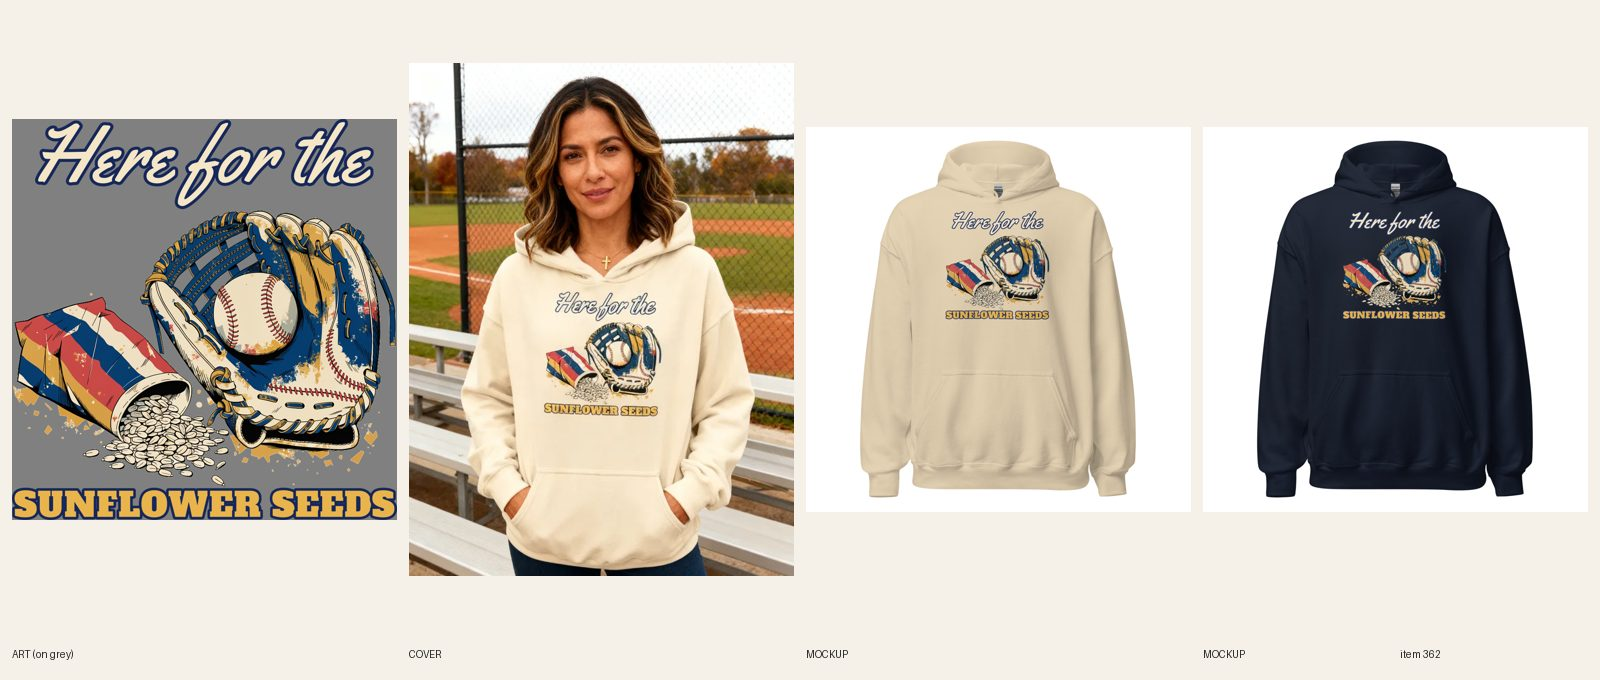
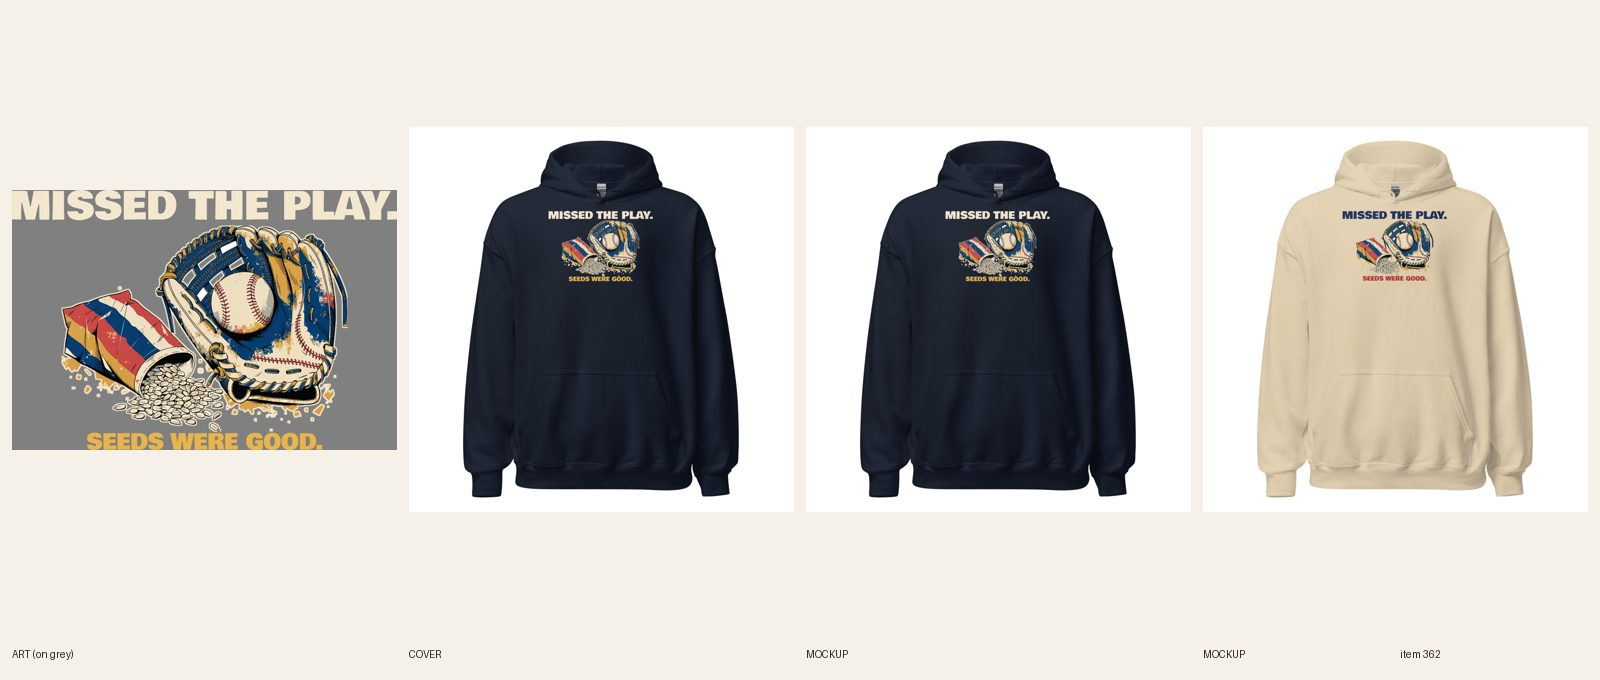
[B] review 362 Missed the Play baseball hoodie (line + type redo)

diff --git a/docs/pipeline/362-baseball-hoodie-here-for-the-sunflower-seeds.md b/docs/pipeline/362-baseball-hoodie-here-for-the-sunflower-seeds.md
@@ -1,4 +1,4 @@
-status: REDO
+status: REVIEW
 lane: B
 type: new
 id: 362
@@ -30,3 +30,4 @@ kd: 38
 - 2026-10-18 02:20 UTC builder [B]: synced 12/12. REVIEW. Sheet docs/review/362.jpg.
 - 2026-10-17 20:19 UTC director: APPROVED, LIVE. ACTIVE + published Online Store, Headless, Google; cohesion-audit --handle PASS.
 - 2026-10-18 17:22 UTC director: QUALITY RESET grade C (new line + type), REDO. The product stays ACTIVE (same handle, URL, title keyword). 1. Line (R3.12, quality-reset 'Lines'): "Here for the / SUNFLOWER SEEDS": Stock "here for the snacks" trope; script headline. Write 5 candidates, keep the one a stranger laughs at in 3 seconds without backstory; kill lines that only describe the picture; if none of the 5 is funny, PARK it. 2. Quality reset type bar (docs/backlog/quality-reset.md, 'The new bar'): headline at least 90% of the art width, heavy, colors pulled from the art; second line at least 45% of the headline's height, never a thin script on a dark or mid garment; use the lettering as a shape (arch, stacked lockup, words breaking into the art), not a plain bar above and a script line below; no font used on more than 1 in 6 of the last 30 designs. 3. Keep the art if it carries the new line, else one new illustration (R4/R5). New print means a new cover per R6.10, copy line one rewritten for the new joke (R8.3), and a fresh review sheet (R7.7). While quality-reset.md says PAUSED, only lane A builds, and only the samples step 2 names.
+- 2026-10-20 04:10 UTC builder [B]: REDO 362 (C grade, line + type) done in place (stays ACTIVE, handle unchanged). 5 candidates: "MISSED THE PLAY. / SEEDS WERE GOOD."; "Sit. Crack. Repeat."; "Here For The Seeds, Not The Score"; "Cracking Up In The Bleachers"; "Sorry, What Inning?". Kept MISSED THE PLAY. / SEEDS WERE GOOD. (deadpan bleacher-mom admission, the seed bag carries it, 3 seconds). Same art (no new fal, $0). Bowlby One at full print width (headline 134% of art width), second line 57% of headline height. Navy file 1090137685 (cream + gold, thin cream halo); Sand light file 1090137692 (headline fill navy, second line red; light file logged for Sand). FW 1500 TOP 0 (6.8 in tall, clear of the pouch). 12/12 synced on the right file per color, back logo kept. Fronts + back replaced in place, alts updated, SEO/copy/FAQ color answer rewritten, ink named from the mockups. Phone-size read OK on both. Cover: handle added to retired-covers.json (plain product shot). audit --handle PASS 0 warn; astro build OK. Sheet docs/review/362.jpg.

diff --git a/docs/intake-log.md b/docs/intake-log.md
@@ -1,5 +1,6 @@
 RUNNING lane B since 2026-10-20 03:28 UTC
 2026-10-20 03:37 UTC — [A] Builder run: redid #246 Unisex Thanksgiving Totally a Pilgrim hoodie (type+line: NOT A TURKEY. / JUST A PILGRIM., same turkey art, Bowlby One full width, FW 1500 TOP 0, Sand file 1090137152 / Navy file 1090137159, 12/12 relinked, 2 fronts replaced in place, copy updated, plain product shot). REVIEW. fal $0.
+2026-10-20 03:41 UTC — [B] Builder run: redid #362 Women's Baseball hoodie (line + type: MISSED THE PLAY. / SEEDS WERE GOOD., same art, Bowlby One, Navy + Sand light files, 12/12 synced). REVIEW. fal $0.
 RUNNING lane C since 2026-10-20 03:23 UTC
 2026-10-20 04:32 UTC — [C] Builder run: redid #554 Men's Grandpa I Fix Things After Naps hoodie (new line + type: I'M FIXING IT. / EYES CLOSED. STILL WORKING., Bevan + Anton full width, same recliner art, file 1090139027, FW 1500 TOP 0, 12/12 relinked, 2 fronts replaced in place, copy + SEO updated, plain product shot). REVIEW. fal $0.
 2026-10-20 03:52 UTC — [C] Builder run: redid #635 Women's Fishing Out-Fished Him. Again. zip hoodie (type only: AGAIN. in Bowlby One heavy, navy on Ash / cream+red keyline on Navy, same art, back files 1090135325 / 1090135337, 12/12 relinked, 2 back mockups replaced in place, copy updated, plain product shot). REVIEW. fal $0.

diff --git a/docs/cohesion-audit.md b/docs/cohesion-audit.md
@@ -1,6 +1,6 @@
-# Cohesion audit — 2026-10-20 02:44 UTC
+# Cohesion audit — 2026-10-20 03:29 UTC
 
-606 live products checked · **0 errors** · 29 warnings · 27 products with findings
+607 live products checked · **0 errors** · 28 warnings · 26 products with findings
 
 ERROR = a shopper or Google would see something wrong (wrong person, wrong garment, wrong grid, wrong price, missing photos, keyword collision). Fix before anything new ships. WARN = polish.
 
@@ -53,9 +53,6 @@ ERROR = a shopper or Google would see something wrong (wrong person, wrong garme
 
 ### Unisex Outdoors – Went Outside It Was Fine Heavyweight Hoodie `unisex-outdoors-went-outside-it-was-fine-heavyweight-hoodie`
 - **WARN** "national park hoodie" appears 4× in the copy (keyword stuffing). → Use it once or twice, naturally.
-
-### Women's Western – Saturday Night Rodeo Hoodie `womens-western-saturday-night-rodeo-hoodie`
-- **WARN** "rodeo hoodie" appears 8× in the copy (keyword stuffing). → Use it once or twice, naturally.
 
 ### Women's Thanksgiving – Pie Season Pumpkin Hoodie `womens-thanksgiving-pie-season-pumpkin-hoodie`
 - **WARN** thanksgiving design isn't in any thanksgiving collection. → Tag it so it appears in the thanksgiving shirts page.
